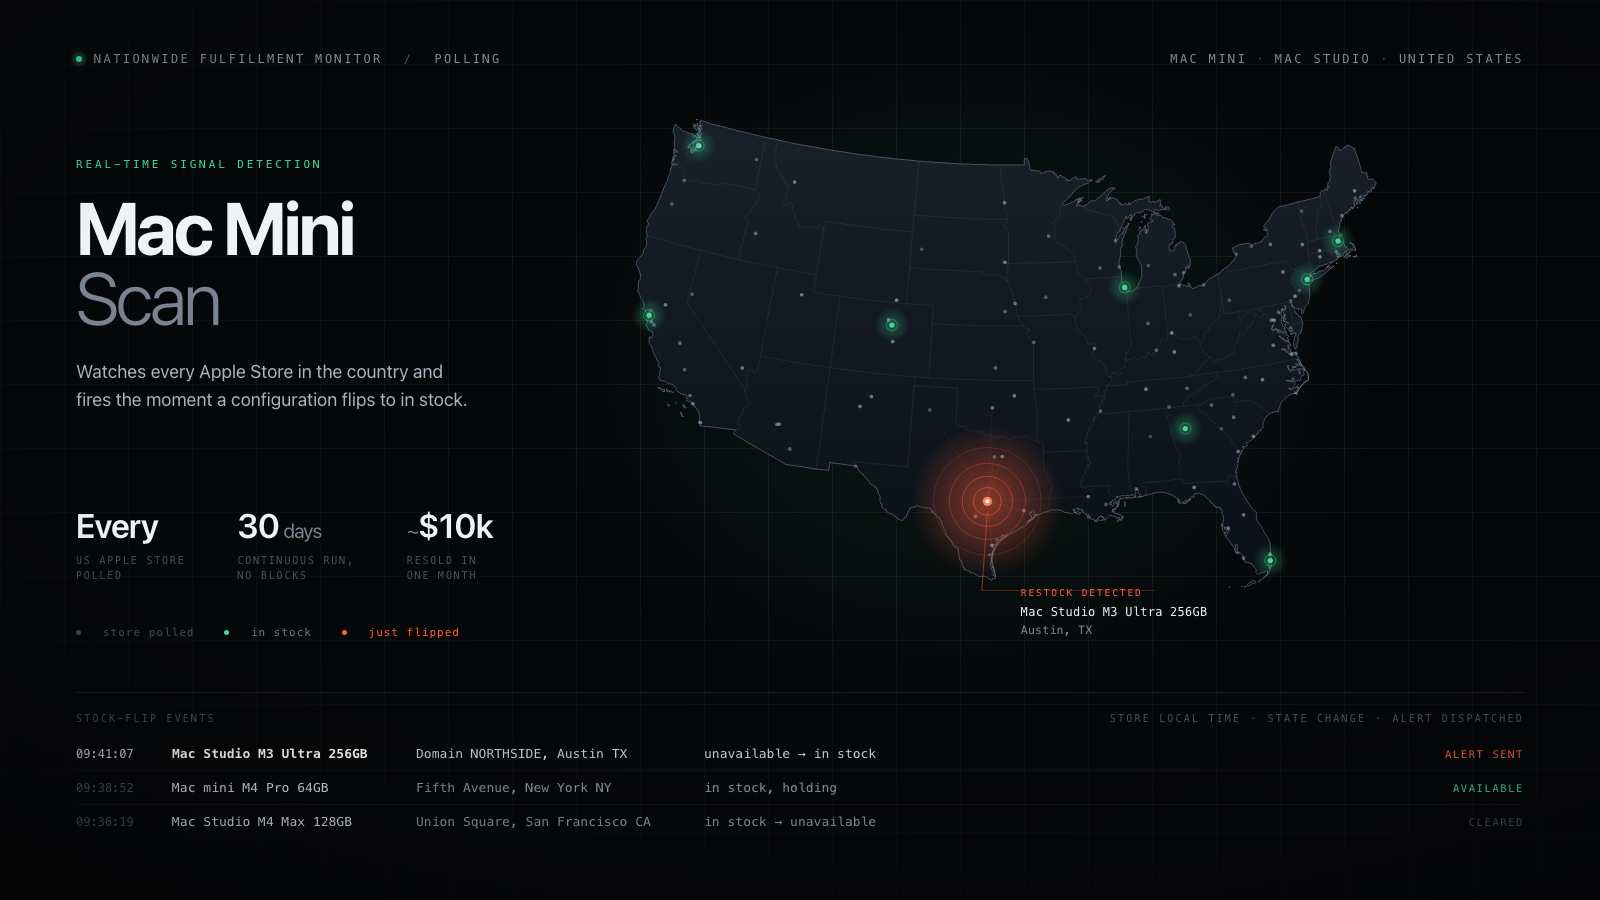
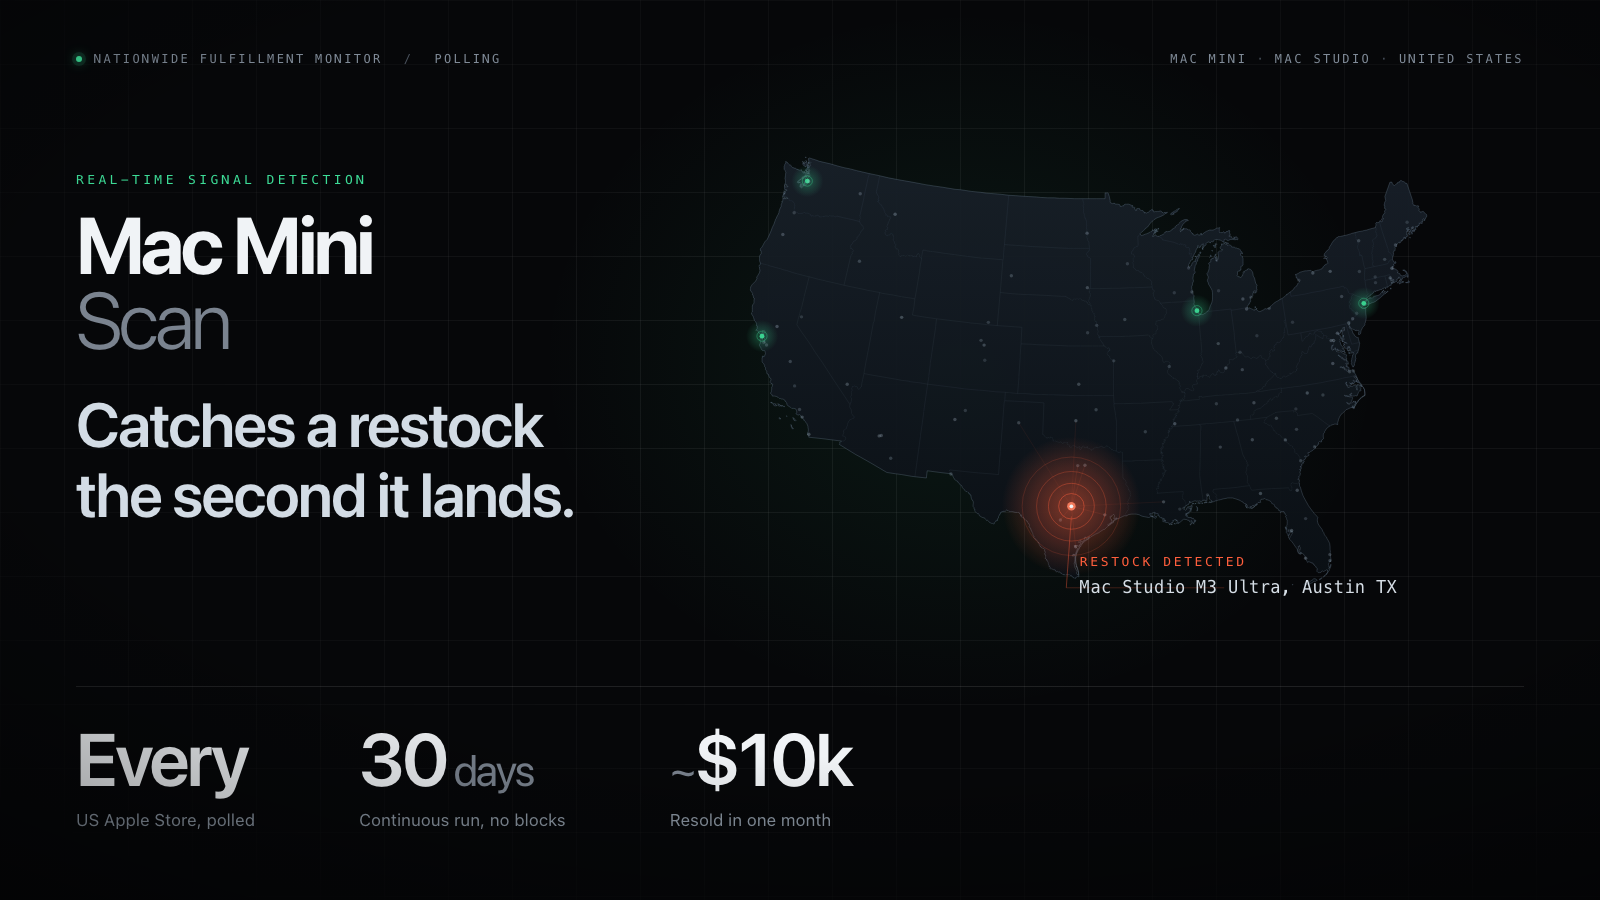
Rebalance Mac Mini Scan hero so its type reads at card size
The instrument-panel composition lost all of its type in the portfolio
grid, where cards render at roughly a quarter of the source width. Lead
with a statement line and the three figures, and demote the map to
supporting texture.

- Add a 62px statement line, the single thing that has to survive the
  quarter-scale card view
- Move the figures to a full-width bottom band at 74px with readable
  17px labels instead of 10px uppercase captions
- Cut the stock-flip event ledger and the legend entirely; both were
  ~13px monospace, pure noise on a card and the least important thing
  on the page at full size
- Lower the map's contrast, drop the lit stores from eight to four, and
  enlarge it into the room the ledger freed

diff --git a/scripts/heroes/mac-mini-scan.html b/scripts/heroes/mac-mini-scan.html
@@ -6,6 +6,15 @@
   Map geometry is a US Albers projection (us-atlas states-10m), baked into
   the PTS / US_NATION / US_BORDERS constants below so this file has no
   network or package dependencies. Every city listed has a real Apple Store.
+
+  Composition rule: a dominant typographic layer (statement + figures) carries
+  the card-size view at ~411px wide; the map is supporting texture. Nothing
+  below ~16px in this 1600px source is load-bearing.
+
+  Visible copy is traceable to app/data/projects.ts (slug: mac-mini-scan).
+  ILLUSTRATIVE (not captured from a real run): which cities are lit as in
+  stock, which city carries the flare, and the restock callout configuration.
+  They show the system's shape, not a recorded event.
 -->
 <style>
   :root{
@@ -40,45 +49,24 @@
     box-shadow:0 0 0 4px rgba(61,220,151,.13),0 0 12px rgba(61,220,151,.85)}
   .sep{color:var(--dimmer);margin:0 9px}
 
-  .lede{position:absolute;left:76px;top:158px;width:400px}
-  .eyebrow{font-size:11px;letter-spacing:.26em;color:var(--live);text-transform:uppercase;margin-bottom:22px}
-  h1{font-size:74px;line-height:.94;letter-spacing:-.04em;font-weight:700}
+  .lede{position:absolute;left:76px;top:172px;width:700px}
+  .eyebrow{font-size:13px;letter-spacing:.26em;color:var(--live);text-transform:uppercase;margin-bottom:20px}
+  h1{font-size:80px;line-height:.94;letter-spacing:-.045em;font-weight:700}
   h1 .thin{color:#7a838f;font-weight:300}
-  .sub{margin-top:26px;font-size:18px;line-height:1.56;color:#aab4be;max-width:400px}
+  .sub{margin-top:32px;font-size:62px;line-height:1.12;letter-spacing:-.028em;
+    font-weight:600;color:#d3dce5;max-width:660px}
 
-  .stats{position:absolute;left:76px;top:508px;width:420px;display:flex;gap:52px}
-  .stat .n{font-size:34px;font-weight:600;letter-spacing:-.025em;line-height:1}
-  .stat .n .u{color:#7a838f;font-size:20px;font-weight:400}
-  .stat .k{margin-top:11px;font-size:10px;letter-spacing:.18em;color:var(--dimmer);
-    text-transform:uppercase;line-height:1.5}
+  .stats{position:absolute;left:76px;right:76px;top:686px;
+    border-top:1px solid rgba(255,255,255,.10);padding-top:34px;display:flex;gap:104px}
+  .stat .n{font-size:74px;font-weight:600;letter-spacing:-.035em;line-height:1}
+  .stat .n .u{color:#7a838f;font-size:44px;font-weight:400}
+  .stat .k{margin-top:14px;font-size:17px;letter-spacing:.02em;color:#8b96a2;line-height:1.35}
 
-  #map{position:absolute;left:534px;top:112px;width:1000px;height:520px}
+  #map{position:absolute;left:664px;top:150px;width:900px;height:476px;opacity:.95}
   #map svg{width:100%;height:100%;overflow:visible}
 
-  .callout{position:absolute;font-size:12px;letter-spacing:.02em;color:var(--ink)}
-  .callout .t{color:var(--flare);letter-spacing:.2em;font-size:9.5px;text-transform:uppercase;margin-bottom:7px}
-  .callout .b{color:var(--dim);margin-top:4px;font-size:11.5px}
-
-  .legend{position:absolute;left:76px;top:626px;font-size:11px;letter-spacing:.09em;color:var(--dimmer)}
-  .legend span{margin-right:22px}
-  .dotmark{display:inline-block;width:5px;height:5px;border-radius:50%;margin-right:8px;vertical-align:1px}
-
-  #feed{position:absolute;left:76px;right:76px;bottom:62px;border-top:1px solid rgba(255,255,255,.09);padding-top:20px}
-  .fhead{display:flex;justify-content:space-between;font-size:10px;letter-spacing:.22em;
-    color:var(--dimmer);text-transform:uppercase;margin-bottom:13px}
-  .row{display:grid;grid-template-columns:96px 244px 288px 1fr 108px;align-items:center;
-    font-size:13px;padding:9px 0;border-bottom:1px solid rgba(255,255,255,.05);color:#98a3ae}
-  .row:last-child{border-bottom:0}
-  .row .ts{color:var(--dimmer);font-size:12px}
-  .row .cfg{color:#dde3e9}
-  .row .store{color:#8b96a2}
-  .row .st{justify-self:end;font-size:10.5px;letter-spacing:.15em;text-transform:uppercase}
-  .row.hot .ts{color:#cdd2d7}
-  .row.hot .cfg{color:#fff;font-weight:600}
-  .row.hot .store{color:#c2ccd5}
-  .st.in{color:var(--live)}
-  .st.out{color:var(--dimmer)}
-  .st.new{color:var(--flare)}
+  .callout{position:absolute;font-size:17px;letter-spacing:.02em;color:#d6dee6}
+  .callout .t{color:var(--flare);letter-spacing:.2em;font-size:13px;text-transform:uppercase;margin-bottom:8px}
 </style>
 
 <div id="stage">
@@ -93,59 +81,25 @@
   <div class="lede">
     <div class="eyebrow mono">Real-time signal detection</div>
     <h1>Mac Mini<br><span class="thin">Scan</span></h1>
-    <div class="sub">Watches every Apple Store in the country and fires the moment a configuration flips to in stock.</div>
+    <div class="sub">Catches a restock<br>the second it lands.</div>
   </div>
 
   <div class="stats">
     <div class="stat">
       <div class="n">Every</div>
-      <div class="k mono">US Apple Store<br>polled</div>
+      <div class="k">US Apple Store, polled</div>
     </div>
     <div class="stat">
       <div class="n">30<span class="u"> days</span></div>
-      <div class="k mono">Continuous run,<br>no blocks</div>
+      <div class="k">Continuous run, no blocks</div>
     </div>
     <div class="stat">
       <div class="n"><span class="u">~</span>$10k</div>
-      <div class="k mono">Resold in<br>one month</div>
+      <div class="k">Resold in one month</div>
     </div>
-  </div>
-
-  <div class="legend mono">
-    <span><span class="dotmark" style="background:#8fa0b0;opacity:.45"></span>store polled</span>
-    <span style="color:#6f7a86"><span class="dotmark" style="background:#3ddc97"></span>in stock</span>
-    <span style="color:#ff5f3d"><span class="dotmark" style="background:#ff5f3d"></span>just flipped</span>
   </div>
 
   <div id="map"><svg id="svg" viewBox="0 0 1060 560"></svg></div>
-
-  <div id="feed">
-    <div class="fhead mono">
-      <span>Stock-flip events</span>
-      <span>Store local time<span class="sep">·</span>state change<span class="sep">·</span>alert dispatched</span>
-    </div>
-    <div class="row mono hot">
-      <span class="ts">09:41:07</span>
-      <span class="cfg">Mac Studio M3 Ultra 256GB</span>
-      <span class="store">Domain NORTHSIDE, Austin TX</span>
-      <span class="store">unavailable &rarr; in stock</span>
-      <span class="st new">Alert sent</span>
-    </div>
-    <div class="row mono">
-      <span class="ts">09:38:52</span>
-      <span class="cfg">Mac mini M4 Pro 64GB</span>
-      <span class="store">Fifth Avenue, New York NY</span>
-      <span class="store">in stock, holding</span>
-      <span class="st in">Available</span>
-    </div>
-    <div class="row mono">
-      <span class="ts">09:36:19</span>
-      <span class="cfg">Mac Studio M4 Max 128GB</span>
-      <span class="store">Union Square, San Francisco CA</span>
-      <span class="store">in stock &rarr; unavailable</span>
-      <span class="st out">Cleared</span>
-    </div>
-  </div>
 
   <div id="vig"></div>
 </div>
@@ -169,15 +123,15 @@ defs.innerHTML=`
 svg.appendChild(defs);
 
 // landmass + state borders
-svg.appendChild(el('path',{d:US_NATION,fill:'url(#landg)',stroke:'rgba(158,186,212,.40)','stroke-width':1}));
-svg.appendChild(el('path',{d:US_BORDERS,fill:'none',stroke:'rgba(150,178,204,.14)','stroke-width':.8}));
+svg.appendChild(el('path',{d:US_NATION,fill:'url(#landg)',stroke:'rgba(158,186,212,.26)','stroke-width':1}));
+svg.appendChild(el('path',{d:US_BORDERS,fill:'none',stroke:'rgba(150,178,204,.10)','stroke-width':.8}));
 
 const pts=PTS.map(p=>({name:p[0],px:p[1],py:p[2]}));
 const byName=n=>pts.find(p=>p.name===n);
 let seed=20260728;
 function rnd(){seed=(seed*1664525+1013904223)%4294967296;return seed/4294967296;}
 
-const IN_STOCK=["New York","San Francisco","Chicago","Denver","Miami","Seattle","Boston","Atlanta"];
+const IN_STOCK=["New York","San Francisco","Chicago","Seattle"];
 const FLARE="Austin";
 const f=byName(FLARE);
 
@@ -194,7 +148,7 @@ pts.forEach(p=>{
     svg.appendChild(el('circle',{cx:p.px,cy:p.py,r:6,fill:'none',stroke:'#3ddc97','stroke-width':.9,opacity:.5}));
     svg.appendChild(el('circle',{cx:p.px,cy:p.py,r:2.8,fill:'#3ddc97'}));
   }else{
-    svg.appendChild(el('circle',{cx:p.px,cy:p.py,r:2,fill:'#b6cadb',opacity:.30+rnd()*.28}));
+    svg.appendChild(el('circle',{cx:p.px,cy:p.py,r:2,fill:'#b6cadb',opacity:.16+rnd()*.16}));
   }
 });
 
@@ -210,12 +164,12 @@ const ex=f.px-6, ey=f.py+96;
 svg.appendChild(el('line',{x1:f.px,y1:f.py+12,x2:ex,y2:ey,stroke:'#ff5f3d','stroke-width':1,opacity:.5}));
 svg.appendChild(el('line',{x1:ex,y1:ey,x2:ex+186,y2:ey,stroke:'#ff5f3d','stroke-width':1,opacity:.28}));
 
-const MAP_L=534, MAP_T=112;
+const MAP_L=664, MAP_T=150, S=900/1060;   // css px per svg unit
 const co=document.createElement('div');
 co.className='callout mono';
-co.style.left=(MAP_L+ex+13)+'px';
-co.style.top=(MAP_T+ey-40)+'px';
-co.innerHTML='<div class="t">Restock detected</div><div>Mac Studio M3 Ultra 256GB</div><div class="b">Austin, TX</div>';
+co.style.left=(MAP_L+(ex+16)*S)+'px';
+co.style.top=(MAP_T+ey*S-34)+'px';
+co.innerHTML='<div class="t">Restock detected</div><div>Mac Studio M3 Ultra, Austin TX</div>';
 document.getElementById('stage').insertBefore(co,document.getElementById('vig'));
 document.body.setAttribute('data-ready','1');
 </script>
